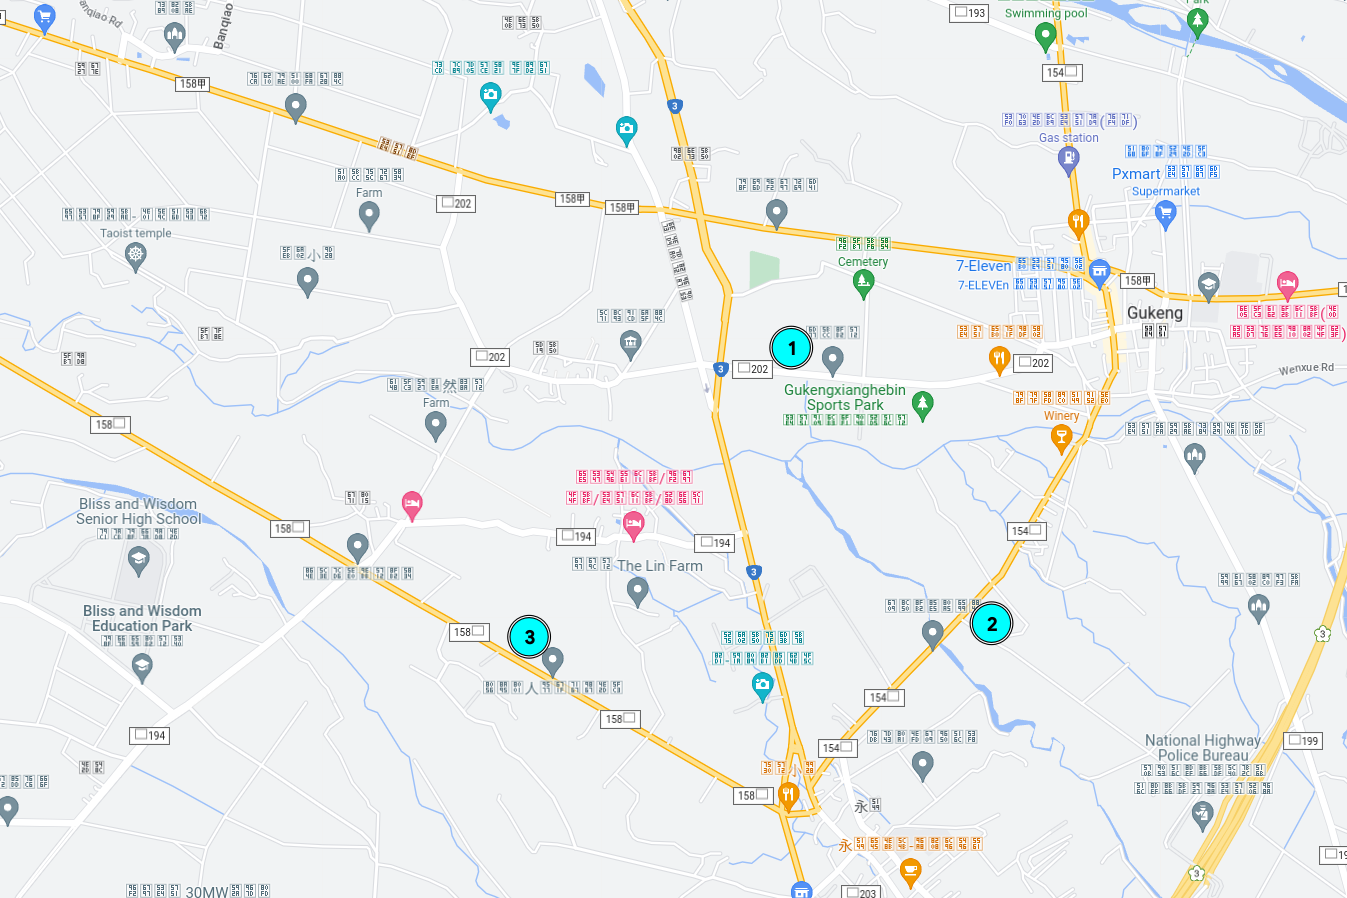
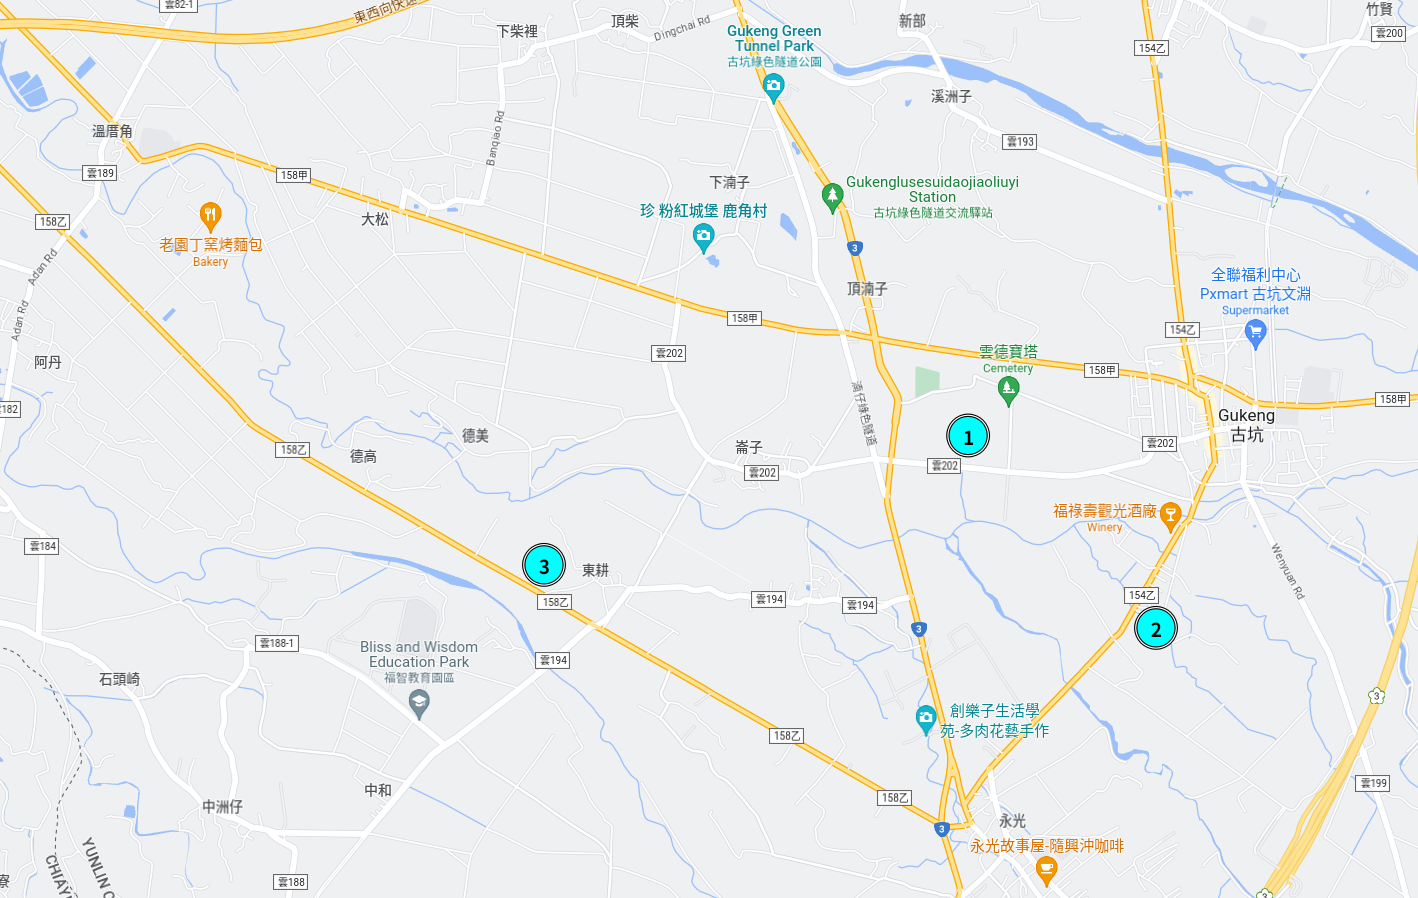
Finished last OSINT challenge

diff --git a/_posts/2023-05-07-UMDCTF_2023_OSINT.md b/_posts/2023-05-07-UMDCTF_2023_OSINT.md
@@ -12,11 +12,11 @@ Since OSINT is one of my very favorite ways of obtaining information and I am fa
 
 All of the 3 OSINT challenges are hosted on <https://gone-missing.chall.lol/>. They contain the same gamified geolocation challenges, such as Geoguesser - we see a Google Maps image taken directly from the API and a small minimap where we click and get response whether we hit the spot or not. 
 
-In the first challenge, we are presented with this picture. ![Gone Missing 1](/assets/img/2023_05_07_UMDCTF_2023_OSINT/gonemissing1.png){: width="1080" .w-75 .normal}
+In the first challenge, we are presented with this picture. ![Gone Missing 1](/assets/img/2023_05_07_UMDCTF_2023_OSINT/gonemissing1.png){: .w-100 .normal}
 
 Luckily for me, this building reminded me of something, I have seen that in my life already. I had a suspicion that this is Det kongelinge slott, the King's palace in Oslo. However I needed to make sure I am right and also find the exact spot where the picture was taken. I printscreened the building and used Google reverse image search to confirm my suspicion. Google results confirmed my suspicion and I went to Google Maps to find the exact spot. This was not very difficult to do since we see that the picture was taken from the grass on the right side of the park. Going through the 5 different pictures, I found the correct spot - the most distant on the right side.
 
-![Royal Palace](/assets/img/2023_05_07_UMDCTF_2023_OSINT/royalpalace.png){: width="972" height="589" .w-75 .normal}
+![Royal Palace](/assets/img/2023_05_07_UMDCTF_2023_OSINT/royalpalace.png){: .w-100 .normal}
 
 After clicking on the map on the exact spot, I was presented with the flag.
 
@@ -24,13 +24,13 @@ After clicking on the map on the exact spot, I was presented with the flag.
 
 Second challenge present us with some sort of picture from a hike, potentially in America. Notice the flag and the star-shape. 
 
-![Gone Missing 2](/assets/img/2023_05_07_UMDCTF_2023_OSINT/gonemissing2.png){: width="972" height="589" .w-75 .normal}
+![Gone Missing 2](/assets/img/2023_05_07_UMDCTF_2023_OSINT/gonemissing2.png){: .w-100 .normal}
  
-I immediately did a reverse image search and in the results, I noticed a very similar structure on top of a rock. The link was a Wikipedia page about Castle Rock, Colorado. ![Suspicion](/assets/img/2023_05_07_UMDCTF_2023_OSINT/castlerock.png){: width="972" height="589" .w-75 .normal}
+I immediately did a reverse image search and in the results, I noticed a very similar structure on top of a rock. The link was a Wikipedia page about Castle Rock, Colorado. ![Suspicion](/assets/img/2023_05_07_UMDCTF_2023_OSINT/castlerock.png){: .w-100 .normal}
 
 The Wikipedia page contained only one picture and important information - the structure is called 'Castle Rock' and is located in city called 'Castle Rock'. Inventive. Nevertheless, I went to Google Maps and searched for Castle Rock, Colorado. I searched for a geomorphological structure called 'Castle Rock' in the 'Castle Rock' city, turned on Street View and searched for the same picture. It was the southern-most picture.
 
-![Castle Rock found](/assets/img/2023_05_07_UMDCTF_2023_OSINT/castlerock_found.png){: width="972" height="589" .w-75 .normal}
+![Castle Rock found](/assets/img/2023_05_07_UMDCTF_2023_OSINT/castlerock_found.png){: .w-100 .normal}
 
 Finding the same spot on the minimap, I was given the second flag.
 
@@ -38,9 +38,9 @@ Finding the same spot on the minimap, I was given the second flag.
 
 Third challenge in the row and the hardest one. We are given only this panorama picture. I am splitting the panorama into 2 pictures. 
 
-![Gone missing 3](/assets/img/2023_05_07_UMDCTF_2023_OSINT/gonemissing3.png){: width="972" height="589" .w-75 .normal}
+![Gone missing 3](/assets/img/2023_05_07_UMDCTF_2023_OSINT/gonemissing3.png){: .w-100 .normal}
 
-![Gone Missing 3 2](/assets/img/2023_05_07_UMDCTF_2023_OSINT/gonemissing3_2.png){: width="972" height="589" .w-75 .normal}
+![Gone Missing 3 2](/assets/img/2023_05_07_UMDCTF_2023_OSINT/gonemissing3_2.png){: .w-100 .normal}
 
 There are several clues to notice:
 - quite a new road with one yellow stripe in the middle
@@ -48,6 +48,7 @@ There are several clues to notice:
 - lamp plate number
 - high-voltage electric power line crossing the forest and the road
 - forest-ish area following the road
+- possible mountains area in the background, very faintly visible
 
 First, I focused on the banner. Since China has no Google Street View and Vietnam as well, my suspicion was Taiwan, however I needed to verify this claim. I searched via Google for an OCR that was able to translate Chinese letters and I found this website <https://2ocr.com/online-ocr-chinese/>. I printscreened the banner only and flipped vertically (because of the number 3 being mirrored) and uploaded to the website. The OCR created this monstrosity:
 ```
@@ -64,10 +65,20 @@ be friends with workers
 
 The word Yunlin was interesting. Quick search revealed that this is a Taiwanese county. Amazing, I have narrowed down the list of possibilities, however I still needed to verify that hypothesis. I started running through Google Maps to check whether lamps and roads like this even exist in Taiwan and started looking for high voltage power line and noticing lamp plate numbers. When zoomed-in, the plate number shown was `320479`. 
 
-![Plate Number](/assets/img/2023_05_07_UMDCTF_2023_OSINT/platenumber.png){: width="972" height="589" .w-75 .normal}
+![Plate Number](/assets/img/2023_05_07_UMDCTF_2023_OSINT/platenumber.png){: .w-100 .normal}
 
-I started on the western coast, used the Street View to find a lamp with a plate number and check against the one I had to find. The lamps on the eastern started with `1xxxxx` and as I was getting closer to the easternpart of the county, the row of numbers was rising. The area around Gukeng (the Gukeng Township) was swarming with plates `30xxxx` and `31xxxx`. Then I started to pay closer attention to the road and via Street View I have selected few roads that were good candidates. It was the road `202`, `154` and `158`.
+I started on the western coast, used the Street View to find a lamp with a plate number and check against the one I had to find. The lamps on the eastern started with `1xxxxx` and as I was getting closer to the easternpart of the county, the row of numbers was rising. The area around Gukeng (the Gukeng Township) was swarming with plates `30xxxx` and `31xxxx`. Then I started to pay closer attention to the road and via Street View I have selected few roads that were good candidates - roads `202`, `154` and `158`.
 
 ![Roads](/assets/img/2023_05_07_UMDCTF_2023_OSINT/roads.png){: .w-100 .normal}
+
+The only point missing was to find out the powerline crossing the road. For this I have used OSM (OpenStreetMap) and that leaved me with 2 options, both on the `158` road. 
+
+![OSM Powerline](/assets/img/2023_05_07_UMDCTF_2023_OSINT/osm-powerline.png){: .w-100 .normal}
+
+This way I have found out that the place is the first spot.
+
+![Gukeng Found](/assets/img/2023_05_07_UMDCTF_2023_OSINT/gukeng_found.png){: .w-100 .normal}
+
+After pointing to this place on the map, I was given the third and final flag.
 
 ## Fire Type Pokemon Only - Forensics
